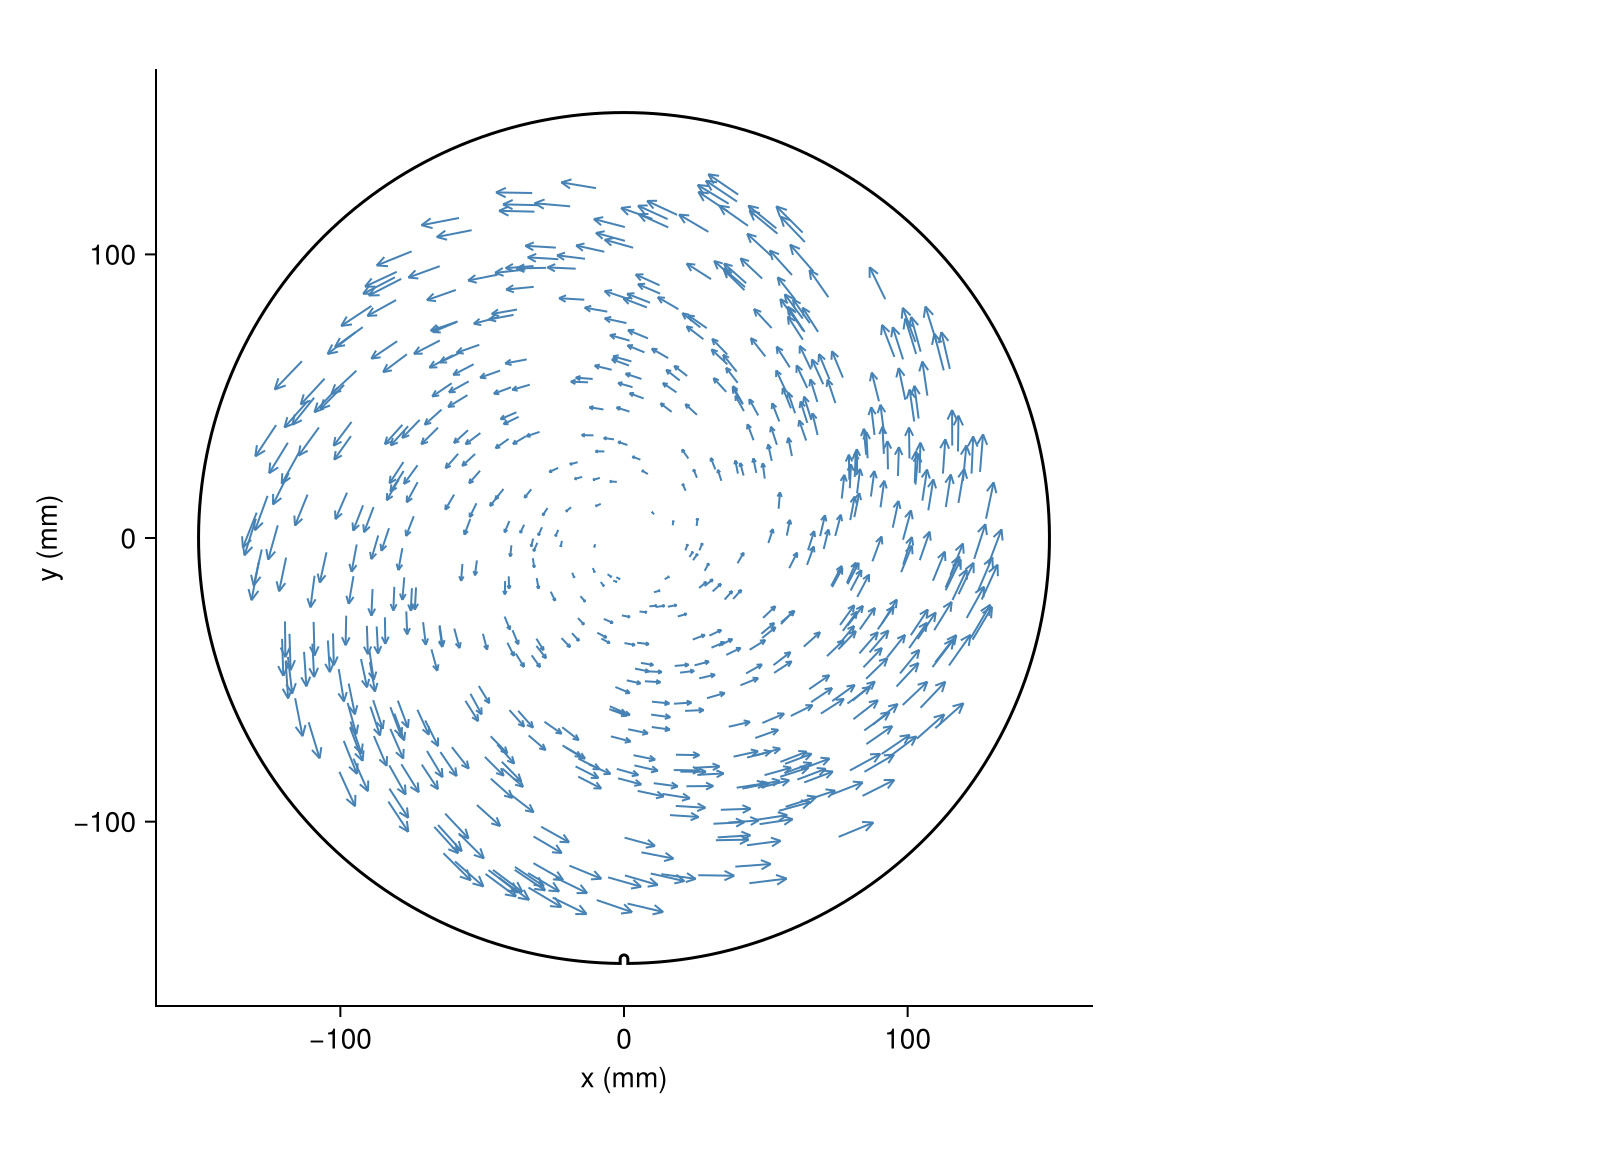
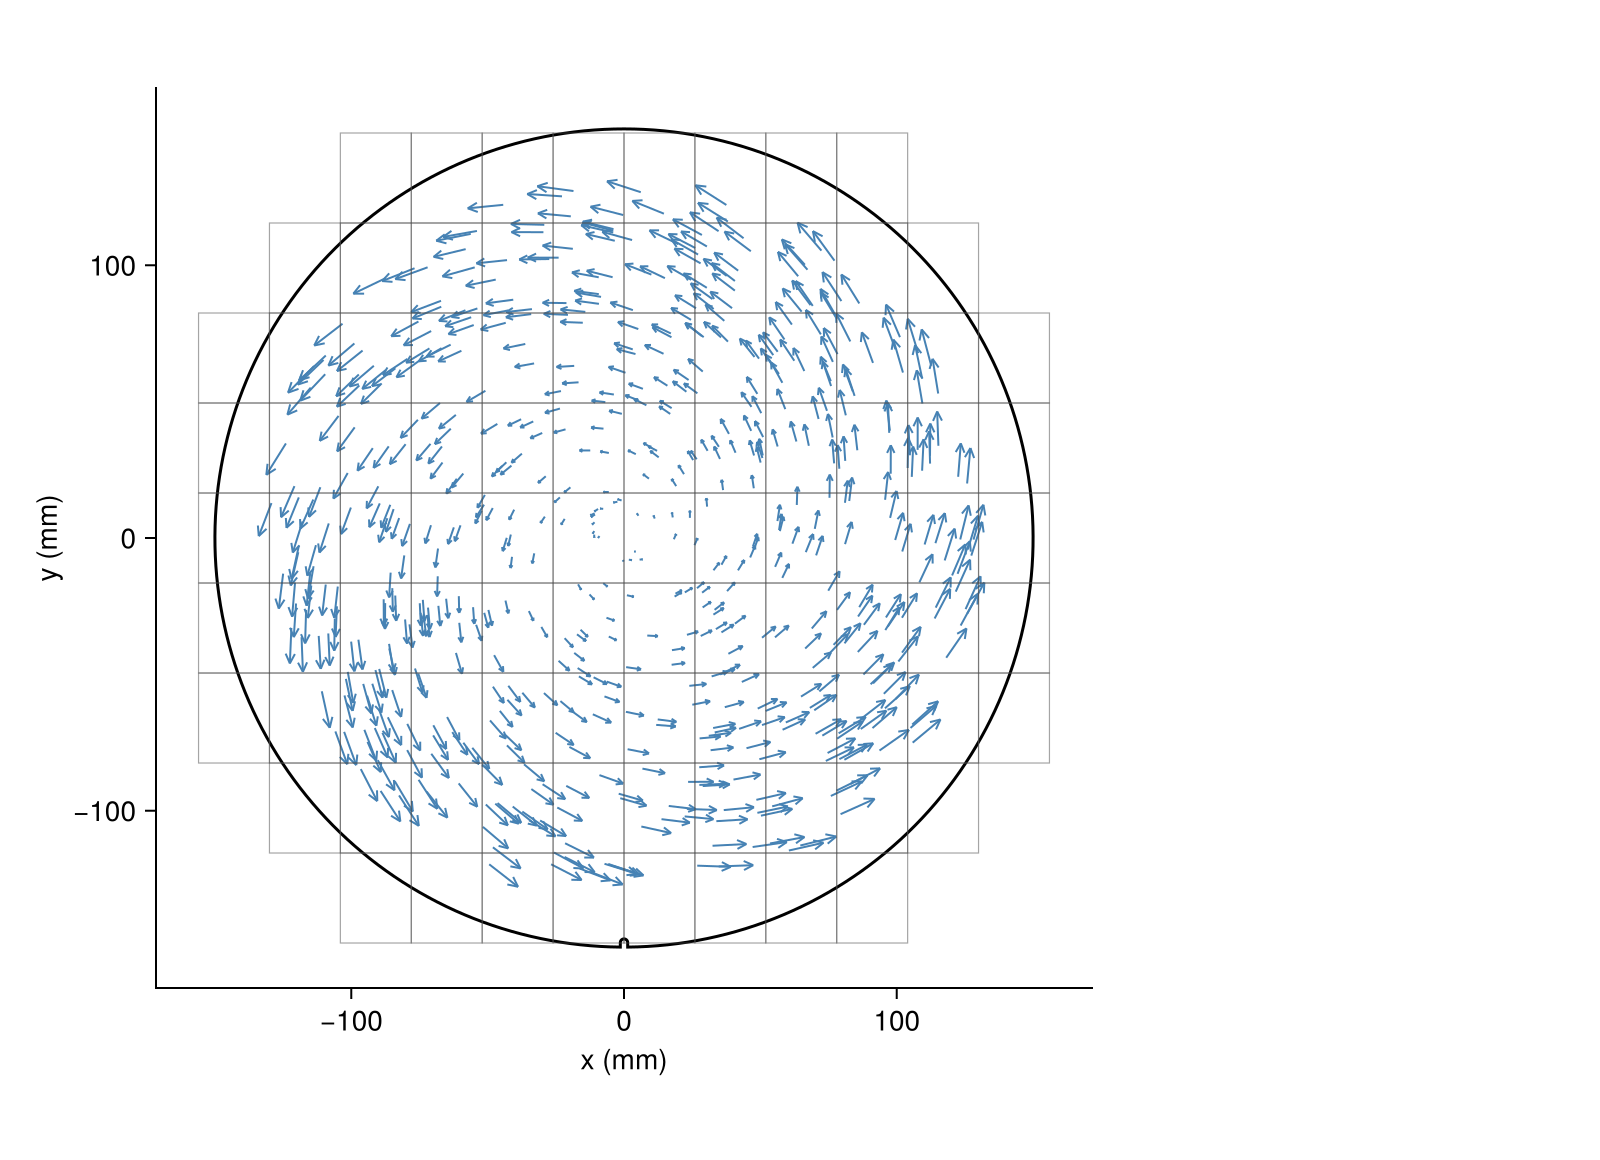
Transparent field fill; fields on every doc plot
Fields default to no fill (FIELD_COLOR = :transparent), so they no
longer tint the data underneath.

Every wafer plot in the gallery draws the shared 26 x 33 mm field grid
from the preamble. generate_examples.jl renders all seven images the
README links (scatter, contour, divergence, and vorticity were missing),
each with fields; divergence/vorticity use a noise-free source/sink and
vortex pair. example_heatmap.png replaces the now-identical
example_heatmap_fields.png. The gallery's coarse-grid divergence
example pairs grid values with CartesianIndices coordinates, as
divergence itself now does.

Assisted-by: Claude Opus 5.5 <noreply@anthropic.com>
Claude-Session: https://claude.ai/code/session_01VpVwMNc1VkHrRCtZ8FxtyC

Changed region(s): [[0.0938, 0.0931, 0.6562, 0.931], [0.0625, 0.6828, 0.0938, 0.7138], [0.0625, 0.2172, 0.0938, 0.2483]]

diff --git a/docs/src/gallery.md b/docs/src/gallery.md
@@ -9,6 +9,8 @@ windows or `WGLMakie` for Jupyter/Pluto notebooks.
 using LithoWaferPlots, CairoMakie
 CairoMakie.activate!(type = "png")
 wafer = WaferSpec()
+# 26 × 33 mm exposure fields covering the wafer, drawn on every plot below
+fields = field_grid([((c - 0.5) * 26.0, (r - 5) * 33.0) for r in 1:9, c in -5:6], (26.0, 33.0); wafer)
 nothing # hide
 ```
 
@@ -41,7 +43,7 @@ Sparse measurement points coloured by value. Good for raw probe data where point
 r = sqrt.(rand(8000)) .* 148.0
 x = @. r * cos(θ); y = @. r * sin(θ)
 v = @. 2.5 * exp(-((x - 60)^2 + (y + 40)^2) / 4000) + 0.15 * $(randn(8000))
-data = WaferData(x, y, v)
+data = WaferData(x, y, v; fields)
 
 wafer_figure(data; plot_type = :scatter, label = "Overlay (a.u.)", markersize = 4.0f0)
 ```
@@ -81,7 +83,7 @@ without a plot.
 r = sqrt.(rand(6000)) .* 148.0
 x = @. r * cos(θ); y = @. r * sin(θ)
 v = @. 100.0 - 8.0 * exp((r - 148.0) / 6.0) + 0.3 * $(randn(6000))  # edge roll-off
-data = WaferData(x, y, v)
+data = WaferData(x, y, v; fields)
 
 fig, ax, side = wafer_figure()
 p = waferheatmap!(ax, data; colormap = :viridis)
@@ -103,7 +105,7 @@ xs = range(-148.0, 148.0; step = 3.0); ys = range(-148.0, 148.0; step = 3.0)
 pts = [(x, y) for x in xs, y in ys if x^2 + y^2 <= 148.0^2]
 x = first.(pts); y = last.(pts)
 v = @. sin(x / 40) * cos(y / 40) + 0.5 * exp(-(x^2 + y^2) / 8000) + 0.08 * $(randn(length(x)))
-data = WaferData(x, y, v)
+data = WaferData(x, y, v; fields)
 
 wafer_figure(data; label = "Thickness (nm)", colormap = :plasma)
 ```
@@ -126,7 +128,7 @@ x = first.(pts); y = last.(pts)
 v = @. sin(x / 40) * cos(y / 40) + 0.08 * $(randn(length(x)))
 data = WaferData(x, y, v; fields)
 
-wafer_figure(data; label = "Thickness (nm)", colormap = :plasma, field_color = (:black, 0.0))
+wafer_figure(data; label = "Thickness (nm)", colormap = :plasma)
 ```
 
 ---
@@ -141,7 +143,7 @@ xs = range(-148.0, 148.0; step = 5.0); ys = range(-148.0, 148.0; step = 5.0)
 pts = [(x, y) for x in xs, y in ys if x^2 + y^2 <= 148.0^2]
 x = first.(pts); y = last.(pts)
 v = @. sin(x / 40) * cos(y / 40) + 0.5 * exp(-(x^2 + y^2) / 8000) + 0.08 * $(randn(length(x)))
-data = WaferData(x, y, v)
+data = WaferData(x, y, v; fields)
 
 fig, ax, side = wafer_figure()
 p = wafercontour!(ax, data; levels = 12, colormap = :viridis)
@@ -168,7 +170,7 @@ recompute `ref * lengthscale` by hand).
 θ = rand(600) .* 2π
 r = sqrt.(rand(600)) .* 130.0
 x = @. r * cos(θ); y = @. r * sin(θ)
-vdata = WaferVectorData(x, y, -y ./ 80 .+ x ./ 300, x ./ 80 .+ y ./ 300)
+vdata = WaferVectorData(x, y, -y ./ 80 .+ x ./ 300, x ./ 80 .+ y ./ 300; fields)
 
 fig, ax, side = wafer_figure()
 p = waferarrows!(ax, vdata; lengthscale = 8.0, arrowcolor = :magnitude, colormap = :viridis)
@@ -188,7 +190,7 @@ large datasets. Controls: `n_seeds`, `max_steps`, `step_size`, and `grid_n`.
 θ = rand(15_000) .* 2π
 r = sqrt.(rand(15_000)) .* 130.0
 x = @. r * cos(θ); y = @. r * sin(θ)
-vdata = WaferVectorData(x, y, -y ./ 80 .+ x ./ 300, x ./ 80 .+ y ./ 300)
+vdata = WaferVectorData(x, y, -y ./ 80 .+ x ./ 300, x ./ 80 .+ y ./ 300; fields)
 
 fig, ax, side = wafer_figure()
 waferstreamlines!(ax, vdata; n_seeds = 12, max_steps = 80, color = :navy, linewidth = 1.2f0)
@@ -208,7 +210,7 @@ src(cx, cy, a) = (w = @.(a * exp(-((x - cx)^2 + (y - cy)^2) / 2500));
                   (@.(w * (x - cx)), @.(w * (y - cy))))
 vx1, vy1 = src(60.0, 40.0, 1.0)
 vx2, vy2 = src(-50.0, -50.0, -1.0)
-vdata = WaferVectorData(x, y, vx1 .+ vx2, vy1 .+ vy2)
+vdata = WaferVectorData(x, y, vx1 .+ vx2, vy1 .+ vy2; fields)
 
 fig, ax, side = wafer_figure()
 p = waferdivergence!(ax, vdata; colormap = :RdBu)
@@ -222,7 +224,7 @@ fig
 r = sqrt.(rand(30_000)) .* 140.0
 x = @. r * cos(θ); y = @. r * sin(θ)
 speed = @. exp(-(x^2 + y^2) / 5000.0)
-vdata = WaferVectorData(x, y, -y .* speed ./ 40, x .* speed ./ 40)
+vdata = WaferVectorData(x, y, -y .* speed ./ 40, x .* speed ./ 40; fields)
 
 fig, ax, side = wafer_figure()
 p = wafervorticity!(ax, vdata)
@@ -254,7 +256,7 @@ src(cx, cy, a) = (w = @.(a * exp(-((x - cx)^2 + (y - cy)^2) / 2500));
                   (@.(w * (x - cx)), @.(w * (y - cy))))
 vx1, vy1 = src(60.0, 40.0, 1.0)
 vx2, vy2 = src(-50.0, -50.0, -1.0)
-vdata = WaferVectorData(x, y, vx1 .+ vx2, vy1 .+ vy2)
+vdata = WaferVectorData(x, y, vx1 .+ vx2, vy1 .+ vy2; fields)
 
 fig, ax, side = wafer_figure()
 p = waferdivergence!(ax, vdata; colormap = :RdBu)
@@ -303,8 +305,9 @@ for j in 1:grid_n, i in 1:grid_n
         (VY[i, j + 1] - VY[i, j - 1]) / (2dyg)
     D[i, j] = dvx_dx + dvy_dy
 end
-gx = [xv for xv in xs for _ in ys]
-gy = [yv for _ in xs for yv in ys]
+cells = vec(CartesianIndices(D))   # same order as vec(D): x index varies fastest
+gx = [xs[I[1]] for I in cells]
+gy = [ys[I[2]] for I in cells]
 gvx = vec(VX); gvy = vec(VY); gdiv = vec(D)
 active = .!isnan.(gvx) .& .!isnan.(gdiv)
 grid_vdata = WaferVectorData(gx[active], gy[active], gvx[active], gvy[active])
@@ -339,7 +342,7 @@ same dense-data `image!` path as `waferheatmap!` by default (`imagemode = :auto`
 r = sqrt.(rand(30_000)) .* 140.0
 x = @. r * cos(θ); y = @. r * sin(θ)
 speed = @. exp(-(x^2 + y^2) / 5000.0)
-vdata = WaferVectorData(x, y, -y .* speed ./ 40, x .* speed ./ 40)
+vdata = WaferVectorData(x, y, -y .* speed ./ 40, x .* speed ./ 40; fields)
 
 fig, ax, side = wafer_figure()
 p = wafervorticity!(ax, vdata)
@@ -358,7 +361,7 @@ above, though this particular flow barely has any (it decays slowly, not to a ha
 ```@example gallery
 mag = hypot.(vdata.vx, vdata.vy)
 flowing = mag .> 0.02 * maximum(mag)
-vdata_flow = WaferVectorData(vdata.x[flowing], vdata.y[flowing], vdata.vx[flowing], vdata.vy[flowing])
+vdata_flow = WaferVectorData(vdata.x[flowing], vdata.y[flowing], vdata.vx[flowing], vdata.vy[flowing]; fields)
 
 fig, ax, side = wafer_figure()
 p = wafervorticity!(ax, vdata)
@@ -392,8 +395,7 @@ yieldval(cx, cy) = clamp(clamp(1 - (cx^2 + cy^2) / (0.85 * rmax^2), 0, 1) + 0.12
 data = WaferData((x = first.(dies), y = last.(dies),
                   value = [yieldval(d...) for d in dies]); fields)
 
-fig, ax, p = wafer_figure(data; label = "Yield", markersize = 14.0f0, colormap = :RdYlGn,
-    field_color = (:black, 0.0))
+fig, ax, p = wafer_figure(data; label = "Yield", markersize = 14.0f0, colormap = :RdYlGn)
 add_exclusion_ring!(ax, wafer; mm_to_edge = 2.0, label = "2 mm EE",
                     color = :black, linestyle = :dash, dim_outside = true, dim_alpha = 0.4)
 add_ring_legend!(ax; position = :lb)
@@ -412,7 +414,7 @@ that works with every recipe type.
 xs = range(-148.0, 148.0; step = 3.0); ys = range(-148.0, 148.0; step = 3.0)
 pts = [(x, y) for x in xs, y in ys if x^2 + y^2 <= 148.0^2]
 x = first.(pts); y = last.(pts)
-data = WaferData(x, y, @.(sin(x / 40) * cos(y / 40)))
+data = WaferData(x, y, @.(sin(x / 40) * cos(y / 40)); fields)
 
 fig, ax, p = wafer_figure(data; label = "Thickness (nm)", colormap = :plasma)
 
@@ -447,7 +449,7 @@ logo = joinpath(pkgdir(LithoWaferPlots), "docs", "src", "assets", "julia-logo.pn
 xs = range(-148.0, 148.0; step = 3.0); ys = range(-148.0, 148.0; step = 3.0)
 pts = [(x, y) for x in xs, y in ys if x^2 + y^2 <= 148.0^2]
 x = first.(pts); y = last.(pts)
-data = WaferData(x, y, @.(sin(x / 40) * cos(y / 40)))
+data = WaferData(x, y, @.(sin(x / 40) * cos(y / 40)); fields)
 
 fig, ax, side = wafer_figure()
 p = waferheatmap!(ax, data; colormap = :viridis)
@@ -485,7 +487,7 @@ table = (x = reduce(vcat, c.x for c in cols),
          value = reduce(vcat, c.value for c in cols),
          lot = reduce(vcat, c.lot for c in cols))
 
-wafer_facet(table, wafer; by = :lot, plot_type = :heatmap,
+wafer_facet(table, wafer; by = :lot, fields, plot_type = :heatmap,
             colormap = :plasma, colorrange = (90.0, 112.0), ncols = 2)
 ```
 
@@ -509,7 +511,7 @@ src(cx, cy, a) = (w = @.(a * exp(-((x - cx)^2 + (y - cy)^2) / 2500));
                   (@.(w * (x - cx)), @.(w * (y - cy))))
 vx1, vy1 = src(60.0, 40.0, 1.0)
 vx2, vy2 = src(-50.0, -50.0, -1.0)
-vdata = WaferVectorData(x, y, vx1 .+ vx2, vy1 .+ vy2)
+vdata = WaferVectorData(x, y, vx1 .+ vx2, vy1 .+ vy2; fields)
 
 fig, ax, side = wafer_cfd_figure(vdata; scalar = :divergence, vector = :streamlines,
     streamline_color = :white, streamline_linewidth = 1.5f0, n_seeds = 25)
@@ -527,7 +529,7 @@ Rotation intensity as background with streamlines showing the flow direction sim
 r = sqrt.(rand(30_000)) .* 140.0
 x = @. r * cos(θ); y = @. r * sin(θ)
 speed = @. exp(-(x^2 + y^2) / 5000.0)
-vdata = WaferVectorData(x, y, -y .* speed ./ 40, x .* speed ./ 40)
+vdata = WaferVectorData(x, y, -y .* speed ./ 40, x .* speed ./ 40; fields)
 
 fig, ax, side = wafer_cfd_figure(vdata; scalar = :vorticity, vector = :streamlines,
     streamline_color = :white, streamline_linewidth = 1.5f0, n_seeds = 25)
@@ -546,7 +548,7 @@ src(cx, cy, a) = (w = @.(a * exp(-((x - cx)^2 + (y - cy)^2) / 2500));
                   (@.(w * (x - cx)), @.(w * (y - cy))))
 vx1, vy1 = src(60.0, 40.0, 1.0)
 vx2, vy2 = src(-50.0, -50.0, -1.0)
-vdata = WaferVectorData(x, y, vx1 .+ vx2, vy1 .+ vy2)
+vdata = WaferVectorData(x, y, vx1 .+ vx2, vy1 .+ vy2; fields)
 
 fig, ax, side = wafer_figure()
 p = waferdivergence!(ax, vdata; colormap = :RdBu)
@@ -621,8 +623,8 @@ identical.
 ```@example gallery
 θ = rand(180) .* 2π; r = sqrt.(rand(180)) .* 140
 x = @. r * cos(θ); y = @. r * sin(θ)
-vdA = WaferVectorData(x, y, -y ./ 150, x ./ 150)
-vdB = WaferVectorData(x, y, -y ./ 75, x ./ 75)
+vdA = WaferVectorData(x, y, -y ./ 150, x ./ 150; fields)
+vdB = WaferVectorData(x, y, -y ./ 75, x ./ 75; fields)
 scale = arrow_scale_from(vdA; ref_fraction = 0.12)
 
 fig = Figure(size = (760, 400))

diff --git a/docs/src/getting_started.md b/docs/src/getting_started.md
@@ -102,7 +102,7 @@ fields = field_grid(centers, (26.0, 33.0); wafer = WaferSpec())
 data = WaferData(df; fields)
 ```
 
-![Heatmap with field overlay](assets/example_heatmap_fields.png)
+![Heatmap with field overlay](assets/example_heatmap.png)
 
 ## Step 5 — Vector field plots
 

diff --git a/README.md b/README.md
@@ -8,7 +8,7 @@
 
 Open-source semiconductor wafer map visualization for Julia.
 
-![Heatmap with field overlay](docs/src/assets/example_heatmap_fields.png)
+![Heatmap with field overlay](docs/src/assets/example_heatmap.png)
 
 ## Features
 

diff --git a/docs/src/index.md b/docs/src/index.md
@@ -56,7 +56,7 @@ add_kpi_panel!(side, data)
 fig
 ```
 
-![Wafer heatmap with exposure-field overlay](assets/example_heatmap_fields.png)
+![Wafer heatmap with exposure-field overlay](assets/example_heatmap.png)
 
 ## Install
 
